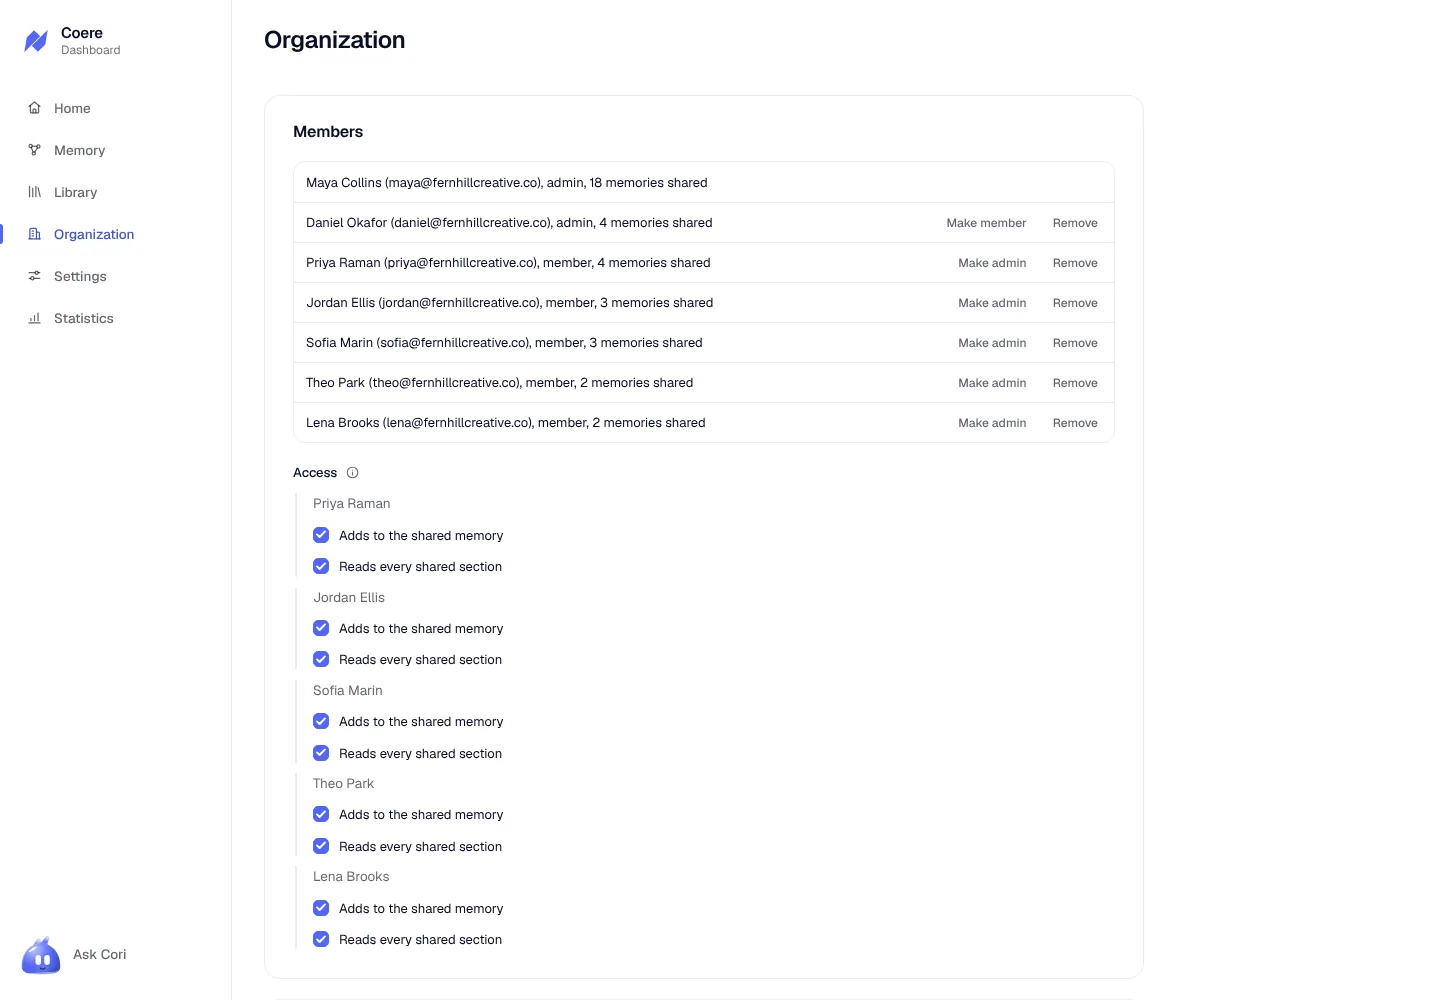
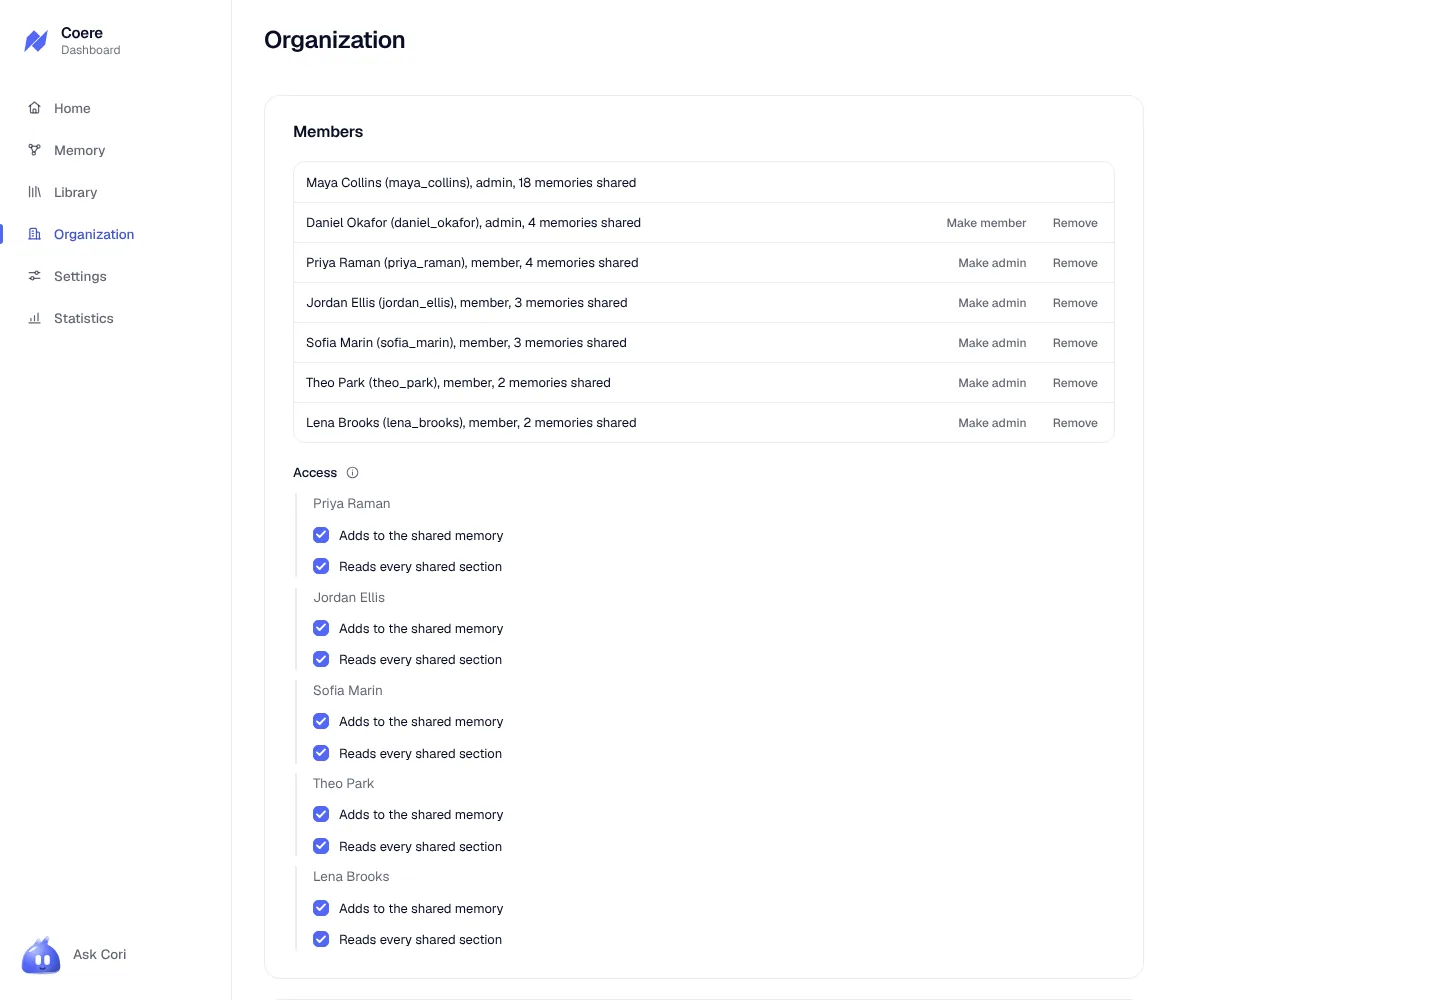
Reshoot the dashboard's Account card and members by username
With coere-v2's new v4 build, the Account card says Connected to coere.ai as maya_collins and each member line names a username, never an email.

Claude-Session: https://claude.ai/code/session_01Ur6uqNCXa3ecJ23BnM9D9o

Changed region(s): [[0.2812, 0.217, 0.5, 0.31], [0.2812, 0.341, 0.5, 0.434], [0.2812, 0.155, 0.4688, 0.186]]

diff --git a/docs/screenshots/dashboard/README.md b/docs/screenshots/dashboard/README.md
@@ -21,7 +21,7 @@ clients are made up for these pictures. Taken by
 |---|---|
 | <img src="memory-graph.webp" alt="The Memory page's graph: You in the middle and Maya's sections around her, with Work holding Fernhill Creative, Kestrel Outdoor, Copperline Energy and Northwind Coffee and their projects" /><br /><sub>Memory: one graph around her, section by section</sub> | <img src="memory.webp" alt="The Memory page's top: 34 chats waiting to be read with Build memory, Now and Half price, then the graph" /><br /><sub>Memory's top. Her memory came in a file, so the chats wait for a build of their own</sub> |
 | <img src="library.webp" alt="The Library: 34 chats in 2 projects, 50.6 KB, a search box, the AI filters and the list by date" /><br /><sub>The Library: every saved chat</sub> | <img src="library-chat.webp" alt="The Library with Bend shoot logistics open beside the list, its whole text under Download and Transfer" /><br /><sub>A chat open in the Library</sub> |
-| <img src="settings.webp" alt="Settings: Search, Cori agent and the start of the Account card" /><br /><sub>Settings</sub> | <img src="settings-account.webp" alt="The Account card: connected to coere.ai as maya@fernhillcreative.co, admin of Fernhill Creative, the connected browser, the two backup switches, the memory copy and Delete account" /><br /><sub>The Account card: the account on coere.ai, browsers, backup and the memory copy</sub> |
+| <img src="settings.webp" alt="Settings: Search, Cori agent and the start of the Account card" /><br /><sub>Settings</sub> | <img src="settings-account.webp" alt="The Account card: connected to coere.ai as maya_collins, admin of Fernhill Creative, the connected browser, the two backup switches, the memory copy and Delete account" /><br /><sub>The Account card: the account on coere.ai, browsers, backup and the memory copy</sub> |
 | <img src="organization-admin.webp" alt="Organization as an admin, from the shared memory graph down, with its root Fernhill Creative" /><br /><sub>Organization, as an admin, with the shared graph</sub> | <img src="organization-admin-members.webp" alt="The members list with Make admin, Make member and Remove, and the invite box" /><br /><sub>An admin's members list and invites</sub> |
 | <img src="organization-member.webp" alt="Organization as a member: the same organization, You are a member, the share switch and the shared graph, with no members list" /><br /><sub>Organization, as a member</sub> | <img src="statistics.webp" alt="Statistics: tokens saved by imports, memory compression and AI usage by model" /><br /><sub>Statistics. Maya's memory came in a file, so this browser has read none of its chats and sent no context yet: its saved chats, imports and use are zero</sub> |
 | <img src="phone-home.webp" width="195" alt="Home at phone width, with the rail as icons" /><br /><sub>Home at 390 wide</sub> | <img src="install.webp" alt="Your dashboard is in Coere: the dashboard runs inside Coere Connect, with Get Coere for Chrome and a link to sign a lost browser out" /><br /><sub>What /dashboard shows when no extension answers</sub> |
